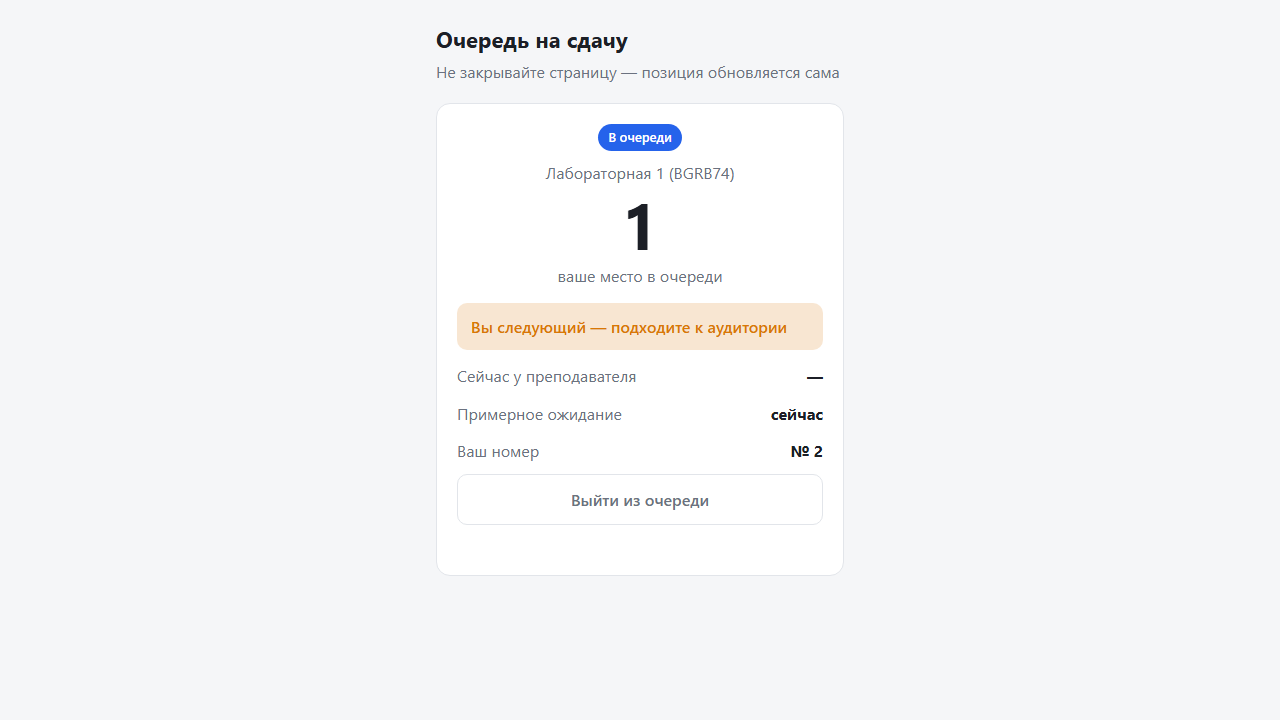
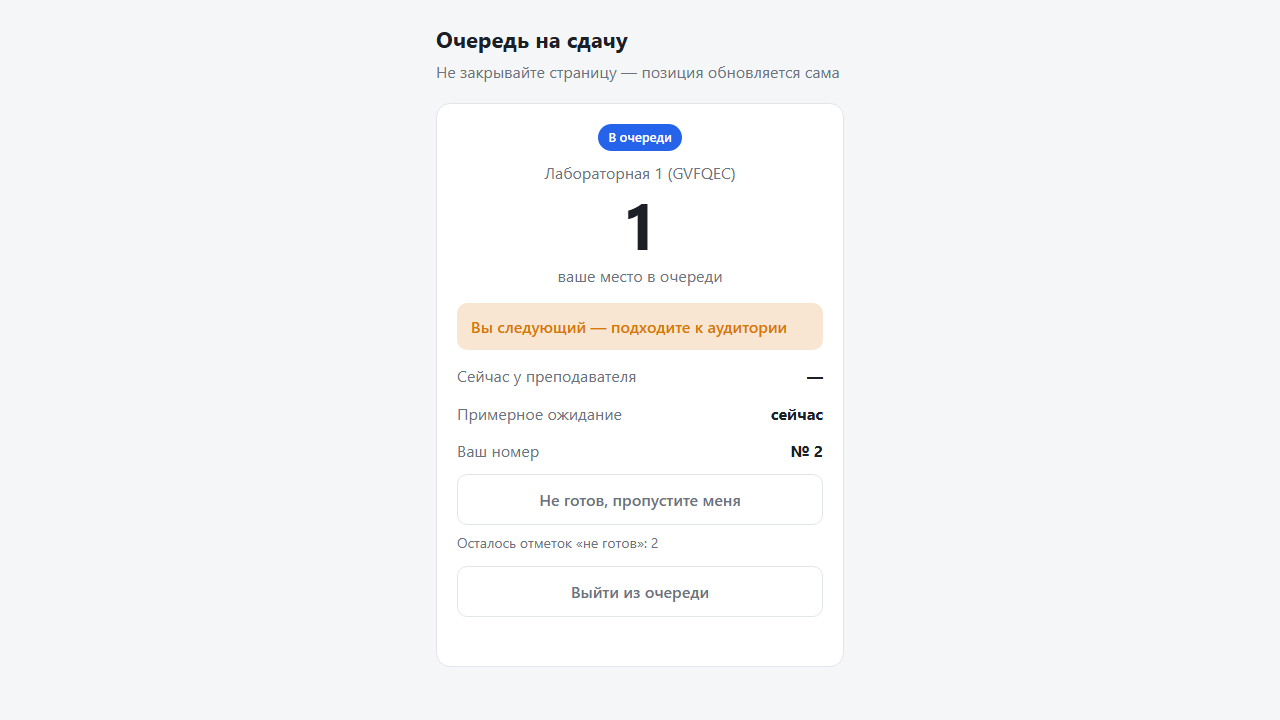
docs: describe the new features, known issues and refresh screenshots

diff --git a/README.md b/README.md
@@ -105,6 +105,12 @@ stateDiagram-v2
 | `POST /assignments/{id}/ai/draft`, `GET /ai/jobs/{id}`, `POST /ai/jobs/{id}/approve`, `GET /ai/status` | преподаватель | черновик банка от модели (фоновая задача), утверждение |
 | `GET /practice/{code}`, `POST /practice/{code}/check`, `GET /practice/{code}/jobs/{id}` | студент | тренировка (не оценка) |
 | `GET /assignments/{id}/analytics`, `GET /sessions/{code}/analytics` | преподаватель | агрегаты и выбросы по длительности |
+| `POST /sessions/{code}/not-ready`, `POST /sessions/{code}/ready` | студент (`X-Entry-Token`) | «Не готов, пропустите меня» и возврат по своему номеру |
+| `PUT /sessions/{code}/registration` | преподаватель | открыть или закрыть запись («Запись закрыта») |
+| `GET /students`, `GET /students/{id}`, `POST /students/{id}/merge`, `POST /submissions/{id}/student` | преподаватель | история студента, ручное объединение и разделение записей |
+| `GET /sessions/{code}/me/history` | студент (`X-Entry-Token`) | свои завершённые попытки |
+| `POST /assignments/{id}/copy`, `GET /assignment-templates`, `POST /assignment-templates/{id}/create` | преподаватель | копия работы, шаблоны |
+| `/spaces`, `/spaces/join`, `/spaces/{id}/publications[/{pid}[/copy]]`, `/spaces/{id}/members/...` | преподаватель | предметные группы и общий банк |
 | `GET /health`, `GET /ready`, `GET /metrics` | все | жив ли процесс; готов ли (БД и миграции); счётчики |
 
 Любая ошибка имеет вид `{"detail": "...", "code": "queue_empty", "request_id": "..."}` (для 422 добавлен список `errors`). В каждом ответе есть заголовок `X-Request-ID`.
@@ -152,6 +158,14 @@ python loadtest/summarize.py                  # медиана и разброс
 - **ИИ-черновик банка** (необязательно, `AI_ENABLED=true`). Локальная модель через Ollama предлагает 10-15 вопросов и критерии по тексту работы; это черновик, который преподаватель проверяет, правит и утверждает. Генерация фоновая (состояния «в очереди, идёт, готово, ошибка»), в модель уходит только текст работы. Установка и ограничения: [docs/AI.md](docs/AI.md).
 - **Тренировка** (страница `/practice`, включается преподавателем). Студент отвечает на вопрос из банка, модель говорит, верно ли и что повторить; «тренировка, не официальная оценка», ответы не сохраняются и не влияют на оценки. Без модели показывается самопроверка по критериям.
 - **Аналитика справедливости** (только преподавателю, на `/protocol`). Сколько сдач, медиана и разброс длительности, распределение баллов по критериям, выбросы по длительности относительно медианы **той же группы результата**; только номера талонов, текст по шаблону. При менее чем 5 сдачах выводов нет (порог `ANALYTICS_MIN_SUBMISSIONS`).
+- **Слабые места** (на `/protocol`, по сессии и по работе). Средний процент от максимума и доля сдач ниже 50% по каждому критерию, самые проблемные критерии и вопросы, распределение итогов; таблицы и простые полосы, без имён. Первые попытки и пересдачи считаются отдельно, у каждой выборки свой порог в 5 сдач. Решение: [docs/DECISIONS.md](docs/DECISIONS.md) п. 30.
+
+### Очередь, история, шаблоны и группы
+
+- **«Не готов, пропустите меня».** Студент сохраняет талон, но его вызывают после готовых; «Готов» возвращает по номеру. Отметок не больше двух за сессию (`NOT_READY_MAX_PER_SESSION`), преподаватель видит отметку и счётчик. Преподаватель может закрыть запись («Запись закрыта»): уже стоящие в очереди не затрагиваются. П. 28.
+- **История студента и пересдачи** (страница `/students`). Сдачи одного человека связываются по (преподаватель, группа, имя без учёта регистра и пробелов), без нечёткого слияния; объединять и разделять записи можно вручную. Карточка показывает все попытки, баллы по критериям, итог, динамику и показанные вопросы; пересдача получает вопросы, которых студент ещё не видел, затем наименее использованные. Студент видит только свою историю (по токену записи и ключу устройства). П. 29.
+- **Копия работы и шаблоны.** «Скопировать работу» переносит критерии и банк вопросов (без сдач, баллов и журнала), «Создать из шаблона» делает то же из работы с пометкой шаблона. Копии независимы от исходной. П. 31.
+- **Предметные группы** (страница `/spaces`). Преподаватели одного предмета объединяются по коду приглашения, публикуют критерии и банки вопросов и копируют чужие материалы в свои работы с указанием автора и группы. Студенты, баллы, сдачи, журнал и аналитика в группе не видны; чужие материалы править нельзя, автор может снять публикацию (копии остаются). ИИ в этой функции нет. П. 32.
 
 Ограничения: один процесс (задачи модели, лимиты тренировки и SSE в памяти); модель на процессоре медленная (на нагруженном ноутбуке 56-206 с на черновик и около 40-50 с на проверку ответа, 12.11.2026, один замер, см. `docs/AI.md`); на VPS с 1 ГБ памяти модель не запускается, нужен более сильный сервер или облачный API; тренировка раскрывает банк вопросов, поэтому выключена по умолчанию; проверено на одной модели (`qwen3.5:9b`) и одной теме: формат запроса работает, вопросы по теме, но бывают фактические огрехи и неполные черновики; другие темы, тихая машина и Linux не проверены.
 
@@ -159,7 +173,7 @@ python loadtest/summarize.py                  # медиана и разброс
 
 - [docs/PROTOCOL_DESIGN.md](docs/PROTOCOL_DESIGN.md): проект протокола сдачи.
 - [docs/AI.md](docs/AI.md): ИИ-помощник (Ollama, настройки, ограничения).
-- [docs/DECISIONS.md](docs/DECISIONS.md): решения, принятые без владельца (нужно подтвердить).
+- [docs/DECISIONS.md](docs/DECISIONS.md): решения, принятые без владельца (нужно подтвердить); п. 28-32 относятся к очереди, истории, слабым местам, шаблонам и группам.
 - [docs/KNOWN_ISSUES.md](docs/KNOWN_ISSUES.md): что не удалось.
 - [docs/PROGRESS.md](docs/PROGRESS.md): журнал работ.
 - [docs/FINAL_REPORT.md](docs/FINAL_REPORT.md): итоговый отчёт.
@@ -175,13 +189,13 @@ python loadtest/summarize.py                  # медиана и разброс
 
 ```
 main.py            приложение, обработчики ошибок, /health /ready /metrics, страницы
-routers/           HTTP-слой (sessions, auth, live, protocol, ai, practice, analytics)
+routers/           HTTP-слой (sessions, auth, live, protocol, ai, practice, analytics, history, templates, spaces)
 services/          бизнес-логика очереди, протокол, SSE-хаб, провайдер ИИ, тренировка, аналитика, автозакрытие, авторизация
 repositories/      запросы к БД
 models/ schemas/   ORM-модели и Pydantic-схемы
 core/              настройки, безопасность, лимиты, метрики, request id, исключения
-alembic/           миграции (sort_order, group_name, протокол, ai_jobs)
-static/            страницы студента, преподавателя, протокола и тренировки
+alembic/           миграции (sort_order, group_name, протокол, ai_jobs, не готов и окно записи, история студентов, шаблоны, группы)
+static/            страницы студента, преподавателя, протокола, тренировки, студентов и групп
 tests/             pytest (гонки, SSE, лимиты, миграции), tests/e2e: браузер
 loadtest/          k6, SSE-клиент, скрипты прогонов и сводка
 docs/              LEARNING, LOADTEST, DEPLOY, DECISIONS, отчёты, скриншоты
@@ -189,11 +203,11 @@ docs/              LEARNING, LOADTEST, DEPLOY, DECISIONS, отчёты, скри
 
 ## Итоги проверки (локальный прогон)
 
-Локальный прогон 11.11 (Python 3.14, PostgreSQL в Docker), после добавления протокола, ИИ-части, тренировки и аналитики:
+Локальный прогон 13.11.2026 (Python 3.11 во временном окружении, PostgreSQL 15 в Docker), после этапов 28-32 (не готов и окно записи, история и пересдачи, слабые места, шаблоны, предметные группы):
 
-- `pytest --cov`: **196 тестов прошли, 1 пропущен** (необязательный интеграционный тест с настоящей Ollama, `RUN_OLLAMA_TESTS=1`), покрытие **95%** (2680 строк, 134 не покрыто);
-- `pytest -m e2e --no-cov`: **33 теста** в браузере прошли (из них 7 для протокола, ИИ-черновика, тренировки и аналитики);
-- `ruff check .`, `ruff format --check .` (86 файлов), `mypy` (51 файл): без замечаний;
-- `alembic upgrade head`, `alembic check`: без замечаний; на временной базе проверены `upgrade`, `downgrade` на одну ревизию и `upgrade` снова;
-- мутации (убрали защиту, тест упал): блокировка сессии при правке оценок (падает тест цепочки журнала), запрет правки критериев после первой сдачи, выбор вопросов с повторами (6 тестов), ответ студента в системном сообщении, отсутствие валидации вывода модели (8 тестов); из прежних: шлюз `join`, `WHERE` в `insert_entry_if_room`;
-- Docker: `docker compose build --no-cache web`, запуск, `/ready` 200, `/`, `/teacher`, `/protocol`, `/practice` отдают 200.
+- `pytest --cov`: **323 теста прошли, 1 пропущен** (необязательный интеграционный тест с настоящей Ollama), покрытие **96%** (3866 строк, 148 не покрыто);
+- `pytest -m e2e --no-cov`: **44 теста** в браузере прошли (в том числе проверка ширины 360 px для новых страниц);
+- `ruff check .`, `ruff format --check .` (109 файлов), `mypy` (64 файла): без замечаний;
+- `alembic check`: без замечаний; для каждой новой миграции на временной базе проверены `upgrade`, `downgrade` и `upgrade` снова, плюс тесты миграций на данных (заполнение, откат);
+- от прежних проверок (11.11, Python 3.14): мутации (убрали защиту, тест упал): блокировка сессии при правке оценок (падает тест цепочки журнала), запрет правки критериев после первой сдачи, выбор вопросов с повторами (6 тестов), ответ студента в системном сообщении, отсутствие валидации вывода модели (8 тестов); из прежних: шлюз `join`, `WHERE` в `insert_entry_if_room`;
+- Docker в этом прогоне не пересобирался; Docker: `docker compose build --no-cache web`, запуск, `/ready` 200, `/`, `/teacher`, `/protocol`, `/practice` отдают 200. (проверка 11.11).

diff --git a/docs/KNOWN_ISSUES.md b/docs/KNOWN_ISSUES.md
@@ -22,3 +22,9 @@
 18. **Один сбой тестового фильтра остался необъяснённым** (из предыдущей сессии: 11 падений при `-k student`, повторно не воспроизвелись).
 19. **Локальный e2e на Python 3.14 под Windows иногда обрывается:** процесс тестового сервера завершается с кодом `0xC0000005` при сборке мусора после потери соединения asyncpg (4 из 11 полных прогонов). Причина утечки не найдена, на Python 3.11 (Windows) 5 полных e2e подряд прошли без сбоев (по 35 passed), unit-тесты 196 passed, 1 skipped; Linux не проверялся (`DECISIONS.md` п. 27). Для надёжных прогонов использовать Python 3.11 или CI.
 20. **Закрытие сессии отменяет открытые сдачи** (`DECISIONS.md` п. 26): оценки нужно завершить до закрытия.
+21. **`test_live.py::test_burst_of_changes_is_coalesced_into_few_database_reads` зависит от скорости машины:** он считает обновления снимка за 20 последовательных входов и один раз упал в полном прогоне на загруженной машине (отдельно проходит 3 из 3, в том числе без правок этапов 28-32). Правка не вносилась; на нагруженной машине его стоит перезапустить отдельно.
+22. **Не проверено на нагрузке:** вход в очередь теперь берёт блокировку строки сессии до проверок (п. 28) и создаёт или ищет запись студента (п. 29); нагрузка после этого не измерялась.
+23. **Связь студентов (п. 29) ошибается в двух случаях:** тёзки одной группы делят запись до ручного разделения, а один человек под разными написаниями имени (например, «Анна К.» и «Анна Ким») не связывается, пока преподаватель не объединит записи. Общий компьютер: студент, введший чужое имя в том же браузере, увидит историю этого имени.
+24. **Оценка вопроса в слабых местах (п. 30) косвенная:** баллов за отдельный вопрос нет, берётся итог сдач, где вопрос выпал. На выборке около 5 сдач разброс большой.
+25. **Предметные группы (п. 32):** код приглашения единственная защита входа, отдельного ограничителя подбора кодов нет; публикация это снимок (обновление через снятие и новую публикацию); автор виден по имени пользователя. Новые страницы и элементы проверены только в Chromium: на ширине 360 px проверено лишь отсутствие горизонтальной прокрутки (`tests/e2e/test_mobile_layout.py`), на настоящих телефонах, в Safari и Firefox не проверялись.
+26. **Откат миграций не проверялся на больших объёмах:** `downgrade` удаляет таблицы истории студентов и групп вместе с данными (связи студентов, публикации); копии работ и отметки «не готов» при откате теряются.
